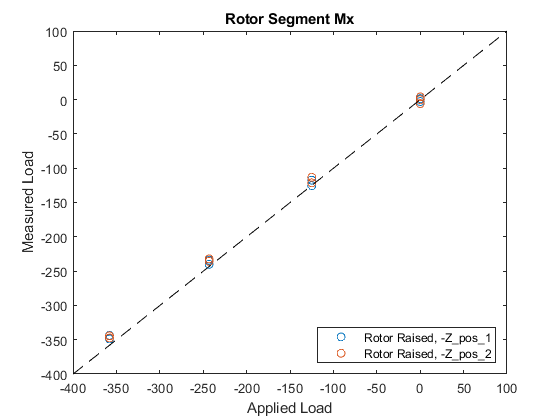
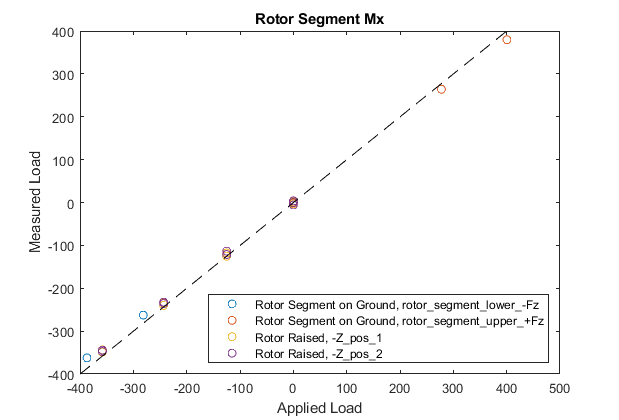
Added on ground Mx tests

diff --git a/processing/implementations/10m_Spanish_Fork_testing/Calibrations/Verifications/rotorSegMx.m b/processing/implementations/10m_Spanish_Fork_testing/Calibrations/Verifications/rotorSegMx.m
@@ -16,18 +16,23 @@ verify.data.relative_cali_struct = {'lower_arm_cal_single_axis_struct.mat',...
     'lower_arm_cal_single_axis_struct.mat',...
     'upper_arm_cal_single_axis_struct.mat'};
 
-% %% Rotor segment on ground
-% verify.absolute_data_path = 'X:\Experiments and Data\20 kW Prototype\Loads_Data\load_calibrations\rotor_segment';
-% verify.tdms_filter = '*rotorStrain*.tdms';
-% verify.applied_load_var_name = 'Applied_Load';
-% verify.relative_data_folder = 'rotor_segment_upper_+Fz';
-% verify.applied_load_scaling = consts.units.lbf_to_N*consts.upperArm.span*cosd(consts.upperArm.angle);
-% 
-% [applied_load, measured_load] = calibration_verification(verify);
-% 
-% figure
-% plot(applied_load,measured_load,'o')
-% hold on
+%% Rotor segment on ground
+verify.absolute_data_path = 'X:\Experiments and Data\20 kW Prototype\Loads_Data\load_calibrations\rotor_segment';
+verify.tdms_filter = '*rotorStrain*.tdms';
+verify.applied_load_var_name = 'Applied_Load';
+
+data_folders = {'rotor_segment_lower_-Fz','rotor_segment_upper_+Fz'};
+applied_load_scaling = consts.units.lbf_to_N*[1 1];
+
+for II = 1:length(data_folders)
+    verify.relative_data_folder = data_folders{II};
+    verify.applied_load_scaling = applied_load_scaling(II);
+
+    [applied_load, measured_load] = calibration_verification(verify);
+
+    plot(applied_load,measured_load,'o')
+    hold on
+end
 
 %% Raised rotor
 verify.absolute_data_path = 'X:\Experiments and Data\20 kW Prototype\Loads_Data\load_calibrations\installed_rotor';
@@ -49,8 +54,8 @@ end
 
 %% Cleanup figure
 title('Rotor Segment Mx')
-x = [-400 100];
+x = [-400 400];
 plot(x,x,'--k')
-legend('Rotor Raised, -Z_pos_1', 'Rotor Raised, -Z_pos_2','Location','SouthEast','interpreter','none') %'Rotor Segment on Ground',
+legend('Rotor Segment on Ground, rotor_segment_lower_-Fz','Rotor Segment on Ground, rotor_segment_upper_+Fz','Rotor Raised, -Z_pos_1', 'Rotor Raised, -Z_pos_2','Location','SouthEast','interpreter','none')
 xlabel('Applied Load')
 ylabel('Measured Load')

diff --git a/processing/utilities/Calibration utilities/calibration_verification.m b/processing/utilities/Calibration utilities/calibration_verification.m
@@ -18,7 +18,11 @@ function [applied_load, calculated_load] = calibration_verification(verify)
 % each of the load channels in verify.data.chanNames
 
 
-files = dir(fullfile(verify.absolute_data_path,verify.relative_data_folder,verify.tdms_filter))
+files = dir(fullfile(verify.absolute_data_path,verify.relative_data_folder,verify.tdms_filter));
+
+if isempty(files)
+    error(sprintf('No files with the format %s found in %s',verify.tdms_filter,fullfile(verify.absolute_data_path,verify.relative_data_folder)))
+end
 
 for JJ =1:length(files)
     TDMS = readTDMS(files(JJ).name,fullfile(verify.absolute_data_path,verify.relative_data_folder));
